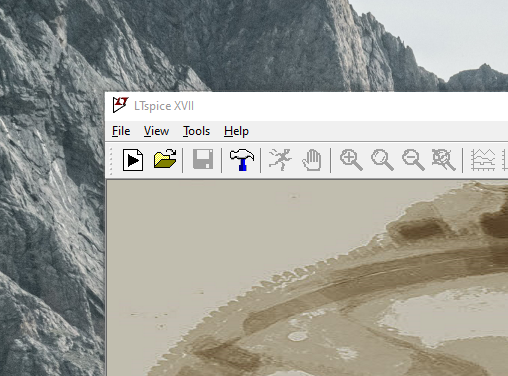
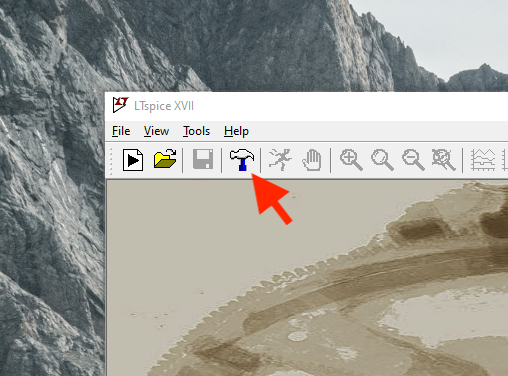
updated readme

Changed region(s): [[0.4724, 0.4681, 0.5906, 0.6144]]

diff --git a/README.md b/README.md
@@ -4,6 +4,20 @@ SPICE models for my personal electronics inventory.
 
 SPICE models are mostly formatted/adapted for **[LTSpice](https://www.analog.com/en/design-center/design-tools-and-calculators/ltspice-simulator.html)**.
 
+# How to integrate with LTSpice
+
+1. Open LTSpice and click the hammer toolbar button (settings).
+
+   ![Step 1](https://github.com/RuiCarneiro/SpiceModelCollection/raw/main/docs/step1.png)
+
+2. Open the tab "Sym. and Lib. Search Paths.
+   
+   ![Step 2](https://github.com/RuiCarneiro/SpiceModelCollection/raw/main/docs/step2.png)
+
+3. Right-click on the text boxes and add the folder were you downloaded this repository to, for both symbols and library (same folder)
+   
+   ![Step 3](https://github.com/RuiCarneiro/SpiceModelCollection/raw/main/docs/step3.png)
+
 ## Copyright
 
 1. AO3400 and AO3401 models by Alpha and Omega Semiconductors
